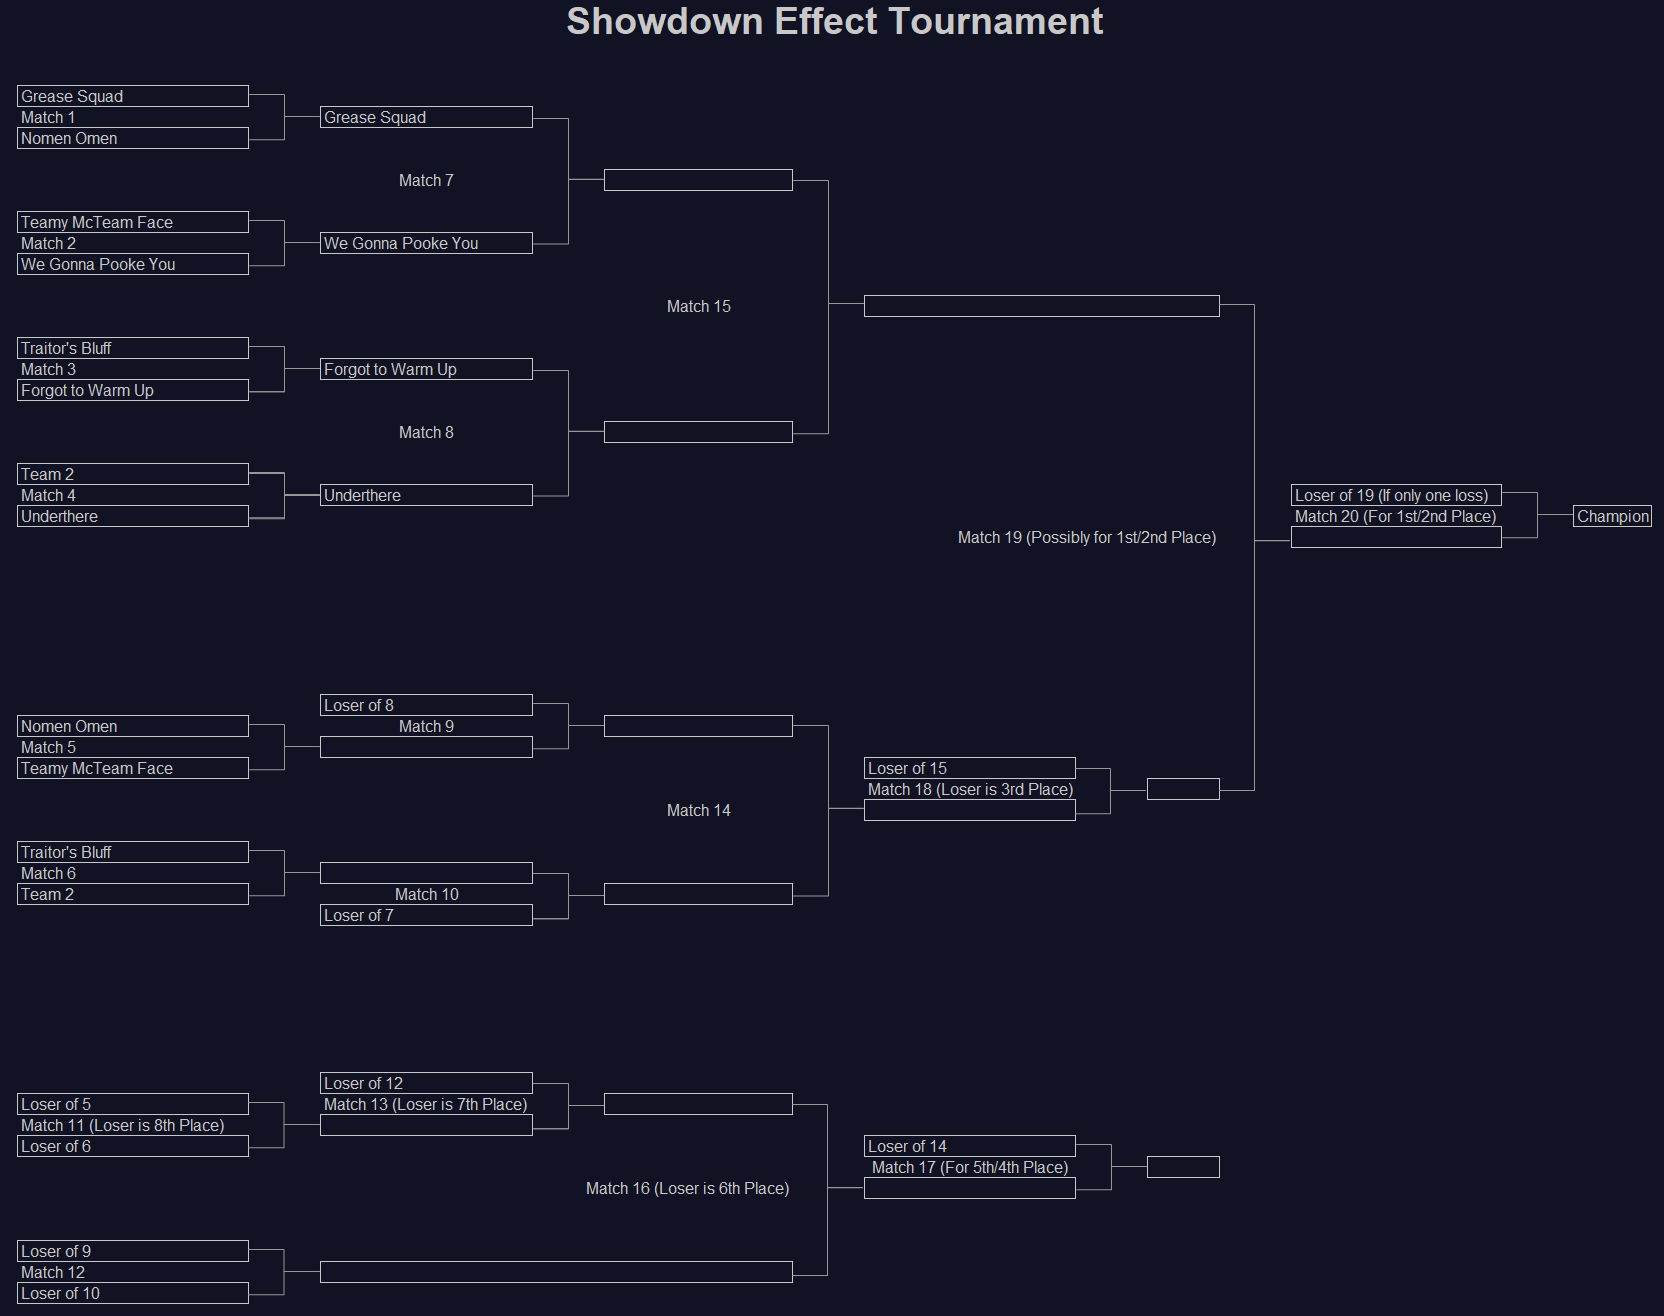
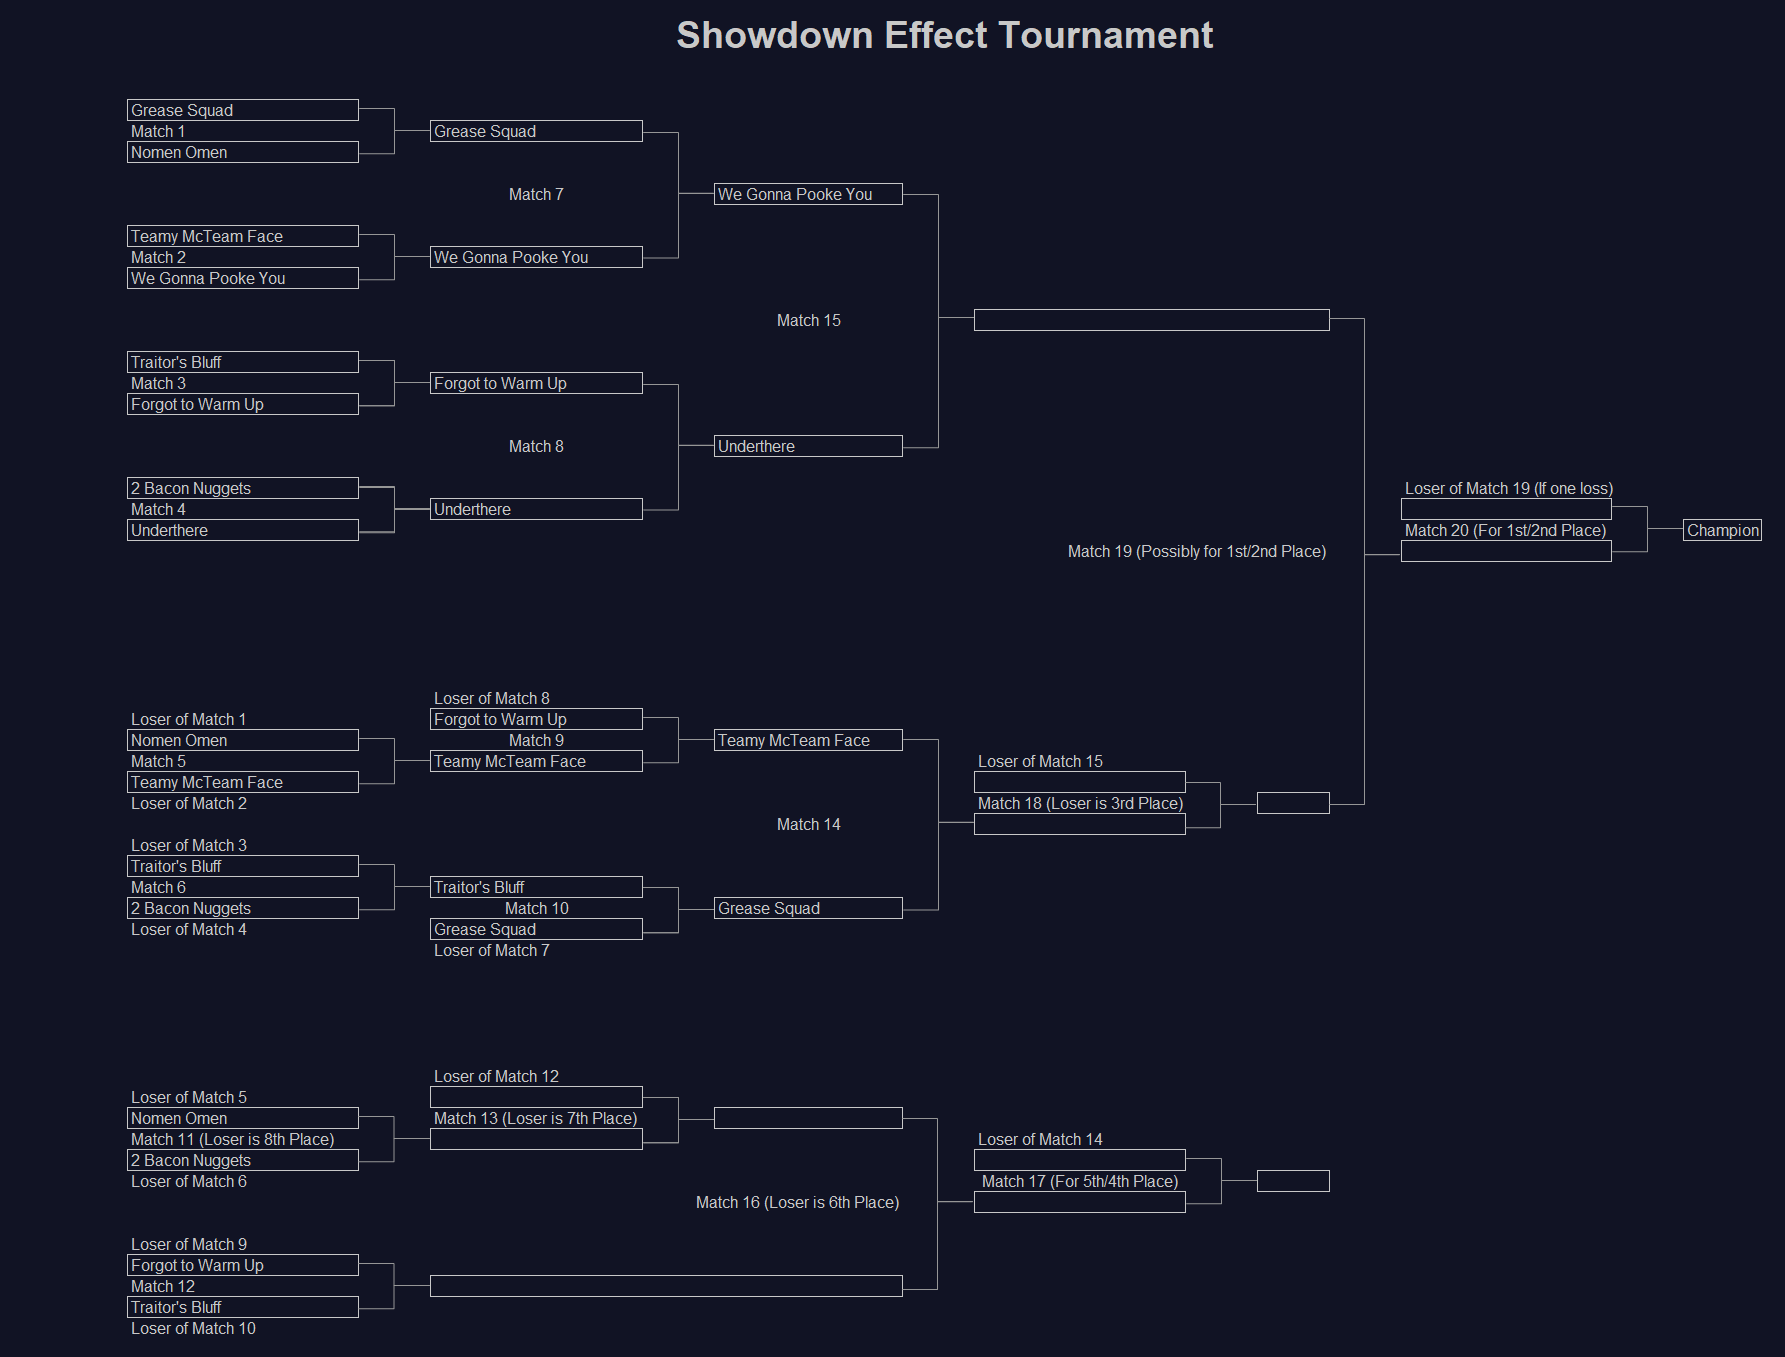
update for day 3

diff --git a/Schedule1.html b/Schedule1.html
@@ -125,7 +125,7 @@
     dayjs.extend(window.dayjs_plugin_utc)
     dayjs.extend(window.dayjs_plugin_timezone)
     Team1 = "Grease Squad"
-    Team2 = "Team 2"
+    Team2 = "2 Bacon Nuggets"
     Team3 = "Traitor's Bluff"
     Team4 = "Teamy McTeam Face"
     Team5 = "We Gonna Pooke You"
@@ -144,16 +144,16 @@
     document.getElementById("Match8").innerHTML = "Match 8: " + Team6 + " vs. " + Team7 + " - " + dayjs("2021-01-17 18:00").tz("America/Chicago", true).local().format('L LT');
     document.getElementById("Match9").innerHTML = "Match 9: " + "Winner of Match 5" + " vs. " + "Loser of Match 8" + " - " + dayjs("2021-01-17 18:30").tz("America/Chicago", true).local().format('L LT');
     document.getElementById("Match10").innerHTML = "Match 10: " + "Winner of Match 6"+ " vs. " + "Loser of Match 7" + " - " + dayjs("2021-01-17 17:00").tz("America/Chicago", true).local().format('L LT');
-    document.getElementById("Match11").innerHTML = "Match 11 - Loser is 8th Place: " + TeamTBD + " vs. " + TeamTBD + " - " + dayjs("2021-01-23 16:00").tz("America/Chicago", true).local().format('L LT');
-    document.getElementById("Match12").innerHTML = "Match 12: " + TeamTBD + " vs. " + TeamTBD + " - " + dayjs("2021-01-23 16:30").tz("America/Chicago", true).local().format('L LT');
-    document.getElementById("Match13").innerHTML = "Match 13 - Loser is 7th Place: " + TeamTBD + " vs. " + TeamTBD + " - " + dayjs("2021-01-23 17:00").tz("America/Chicago", true).local().format('L LT');
-    document.getElementById("Match14").innerHTML = "Match 14: " + TeamTBD + " vs. " + TeamTBD + " - " + dayjs("2021-01-23 17:30").tz("America/Chicago", true).local().format('L LT');
-    document.getElementById("Match15").innerHTML = "Match 15: " + TeamTBD + " vs. " + TeamTBD + " - " + dayjs("2021-01-23 18:00").tz("America/Chicago", true).local().format('L LT');
-    document.getElementById("Match16").innerHTML = "Match 16 - Loser is 6th Place: " + TeamTBD + " vs. " + TeamTBD + " - " + dayjs("2021-01-24 16:00").tz("America/Chicago", true).local().format('L LT');
-    document.getElementById("Match17").innerHTML = "Match 17 - Loser is 5th Place/Winner is 4th Place: " + TeamTBD + " vs. " + TeamTBD + " - " + dayjs("2021-01-24 16:30").tz("America/Chicago", true).local().format('L LT');
-    document.getElementById("Match18").innerHTML = "Match 18 - Loser is 3rd Place: " + TeamTBD + " vs. " + TeamTBD + " - " + dayjs("2021-01-24 17:00").tz("America/Chicago", true).local().format('L LT');
-    document.getElementById("Match19").innerHTML = "Match 19 - If the Winner of Match 15 wins (Loser is 2nd Place/Winner is 1st Place): " + TeamTBD + " vs. " + TeamTBD + " - " + dayjs("2021-01-24 17:30").tz("America/Chicago", true).local().format('L LT');
-    document.getElementById("Match20").innerHTML = "[If Necessary] Match 20: " + TeamTBD + " vs. " + TeamTBD + " - " + dayjs("2021-01-24 18:00").tz("America/Chicago", true).local().format('L LT');
+    document.getElementById("Match11").innerHTML = "Match 11 - Loser is 8th Place: " + Team8 + " vs. " + Team2 + " - " + dayjs("2021-01-23 16:00").tz("America/Chicago", true).local().format('L LT');
+    document.getElementById("Match12").innerHTML = "Match 12: " + Team6 + " vs. " + Team3 + " - " + dayjs("2021-01-23 16:30").tz("America/Chicago", true).local().format('L LT');
+    document.getElementById("Match13").innerHTML = "Match 13 - Loser is 7th Place: " + "Winner of Match 11" + " vs. " + "Loser of Match 12" + " - " + dayjs("2021-01-23 17:00").tz("America/Chicago", true).local().format('L LT');
+    document.getElementById("Match14").innerHTML = "Match 14: " + Team4 + " vs. " + Team1 + " - " + dayjs("2021-01-23 17:30").tz("America/Chicago", true).local().format('L LT');
+    document.getElementById("Match15").innerHTML = "Match 15: " + Team5 + " vs. " + Team7 + " - " + dayjs("2021-01-23 18:00").tz("America/Chicago", true).local().format('L LT');
+    document.getElementById("Match16").innerHTML = "Match 16 - Loser is 6th Place: " + "Winner of Match 13" + " vs. " + "Winner of Match 12" + " - " + dayjs("2021-01-24 15:00").tz("America/Chicago", true).local().format('L LT');
+    document.getElementById("Match17").innerHTML = "Match 17 - Loser is 5th Place/Winner is 4th Place: " + "Winner of Match 16" + " vs. " + "Loser of Match 14" + " - " + dayjs("2021-01-24 15:30").tz("America/Chicago", true).local().format('L LT');
+    document.getElementById("Match18").innerHTML = "Match 18 - Loser is 3rd Place: " + "Loser of Match 15" + " vs. " + "Winner of Match 14" + " - " + dayjs("2021-01-24 16:00").tz("America/Chicago", true).local().format('L LT');
+    document.getElementById("Match19").innerHTML = "Match 19 - If the Winner of Match 15 wins (Loser is 2nd Place/Winner is 1st Place): " + "Winner of Match 15" + " vs. " + "Winner of Match 18" + " - " + dayjs("2021-01-24 16:30").tz("America/Chicago", true).local().format('L LT');
+    document.getElementById("Match20").innerHTML = "[If Necessary] Match 20: " + "Loser of Match 19 (If they only have 1 loss)" + " vs. " + "Winner of Match 19" + " - " + dayjs("2021-01-24 17:00").tz("America/Chicago", true).local().format('L LT');
 </script>
 <script>
     $.get("navbar.html", function(data){

diff --git a/index.html b/index.html
@@ -26,7 +26,6 @@
                 </p>
         </div>
 <!-- force refresh... -->
-<!-- force refresh... -->
 <script>
     $.get("navbar.html", function(data){
         $("#navbar-norm").replaceWith(data);
